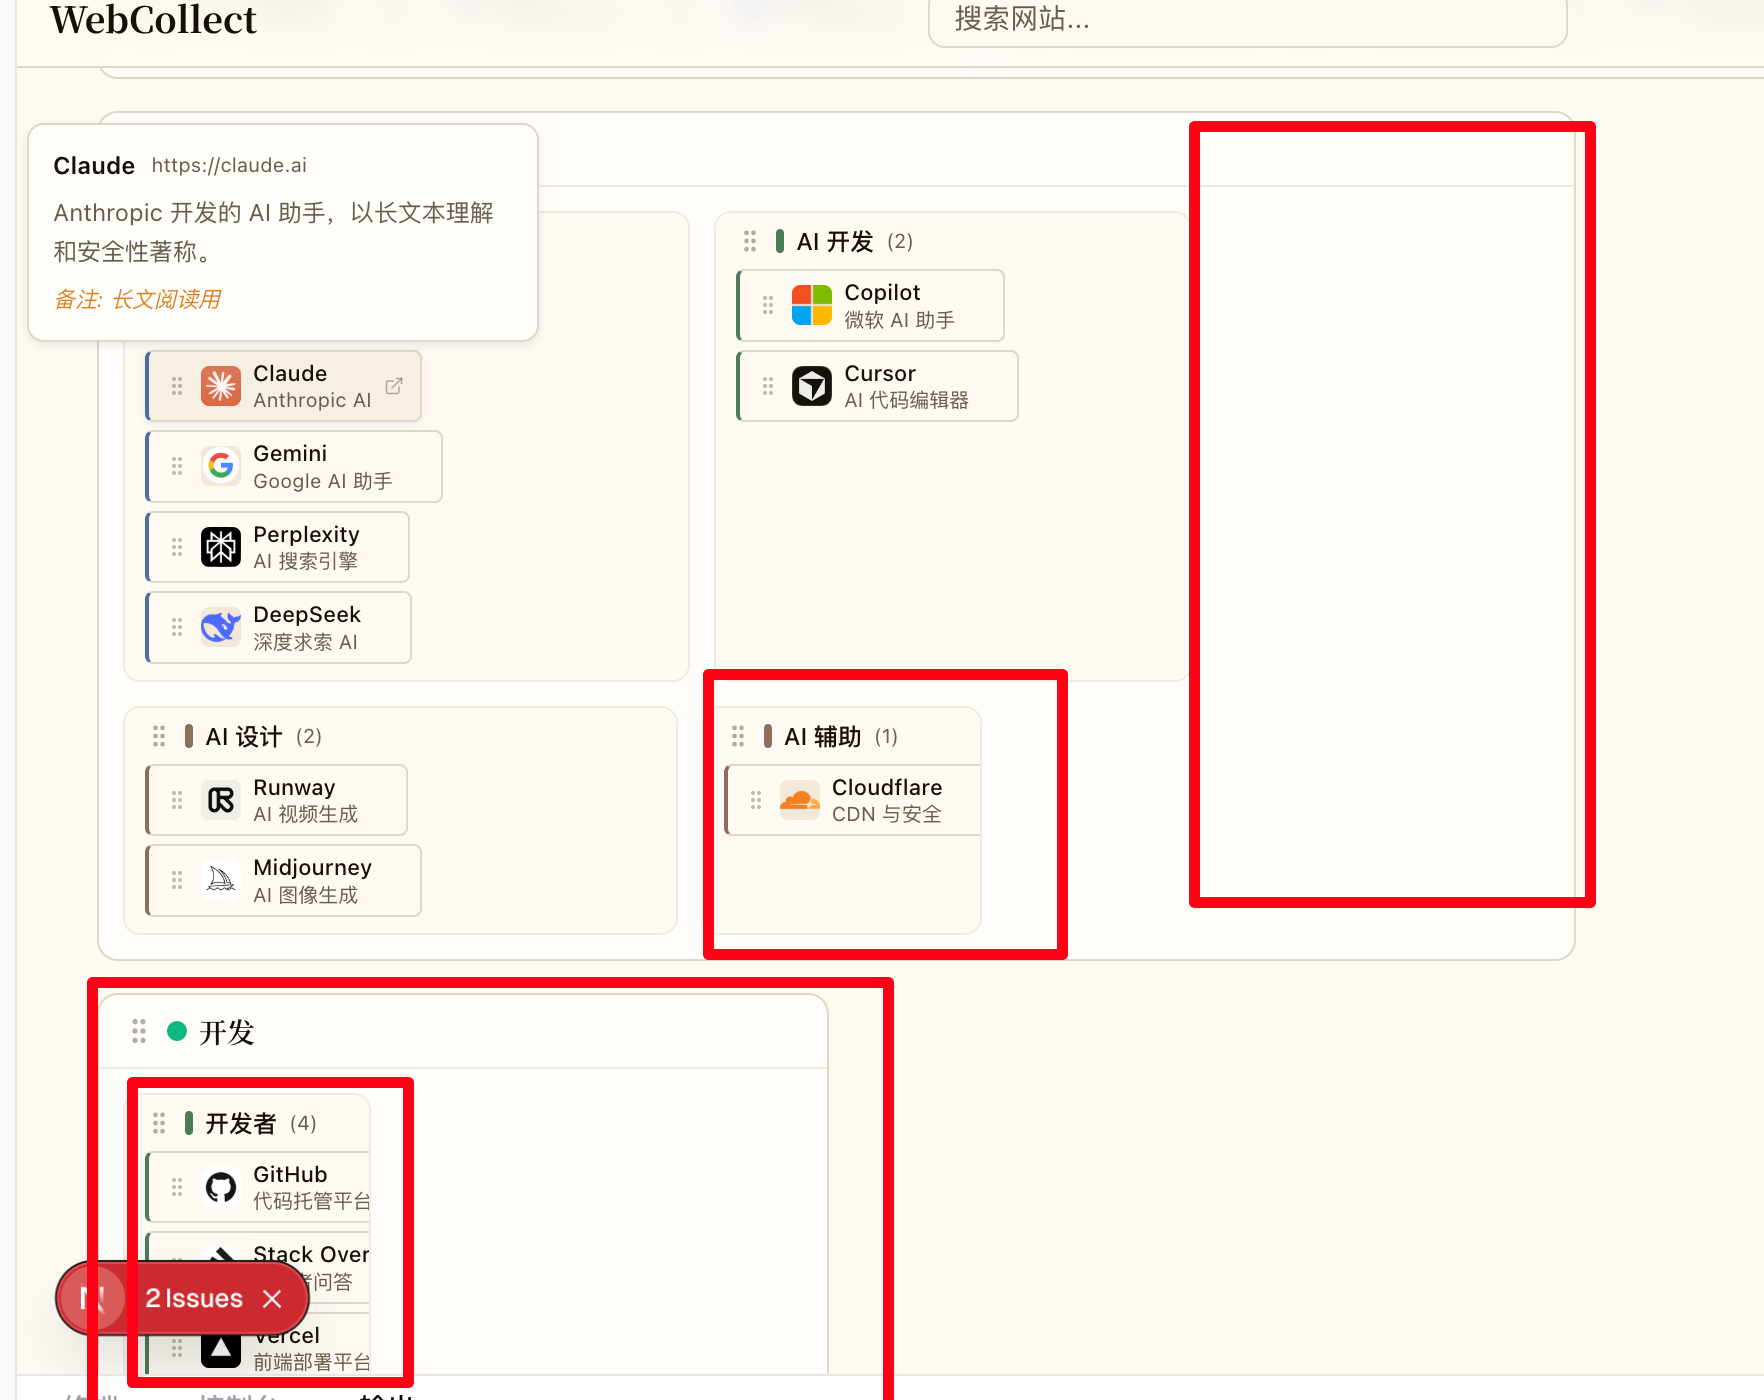
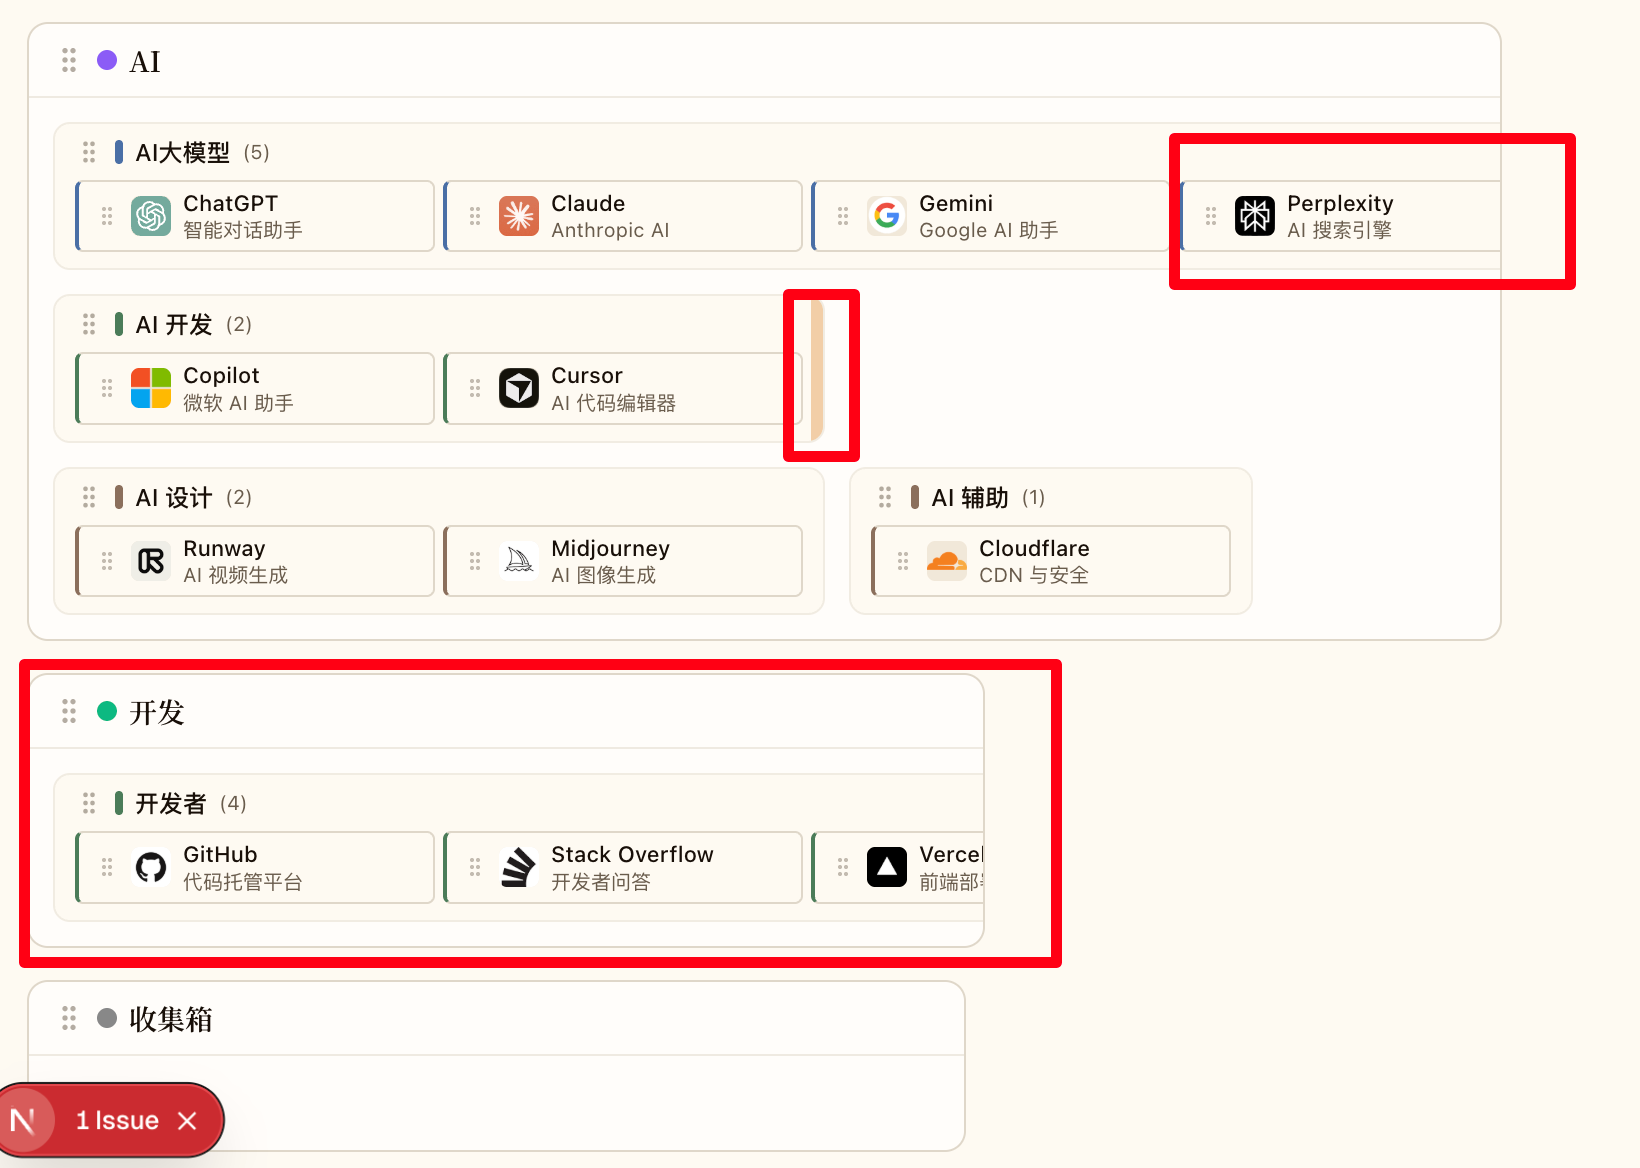
fix: 修复分组拉伸和分类内自适应布局问题
1. 卡片：从 w-[180px] shrink-0 改为 min-w-[140px] flex-1
   - 卡片随分组宽度自动伸缩，窄时缩至140px，宽时自动填充
   - 拉宽分组时卡片自动换行多列，不留白

2. 子分组和未分类分组：
   - 默认 flex: 1 1 0%（均匀填充父容器空间）
   - 手动拉伸后 flex: 0 0 XX%（固定指定宽度）
   - 移除 shrink-0，允许分组被压缩（相邻分组拉伸时）
   - 外部分类拉宽时，内部分组自动填满空间

3. 所有拉伸手柄：添加 onPointerDown + e.preventDefault() + e.stopPropagation()
   - 阻止 dnd-kit 的 PointerSensor 捕获拉伸事件
   - 拉伸和拖动不再互相干扰

Changed region(s): [[0.0, 0.0, 1.0, 1.0], [0.2488, 0.4623, 0.2799, 0.524]]

diff --git a/src/components/layout/sortable-grid.tsx b/src/components/layout/sortable-grid.tsx
@@ -706,6 +706,10 @@ function SortableCategoryBlock({
       <div
         className="absolute right-0 top-0 bottom-0 w-1.5 cursor-col-resize
           hover:bg-primary/20 active:bg-primary/30 transition-colors rounded-r-lg"
+        onPointerDown={(e) => {
+          e.preventDefault();
+          e.stopPropagation();
+        }}
         onMouseDown={handleResizeStart}
       />
     </div>
@@ -815,14 +819,16 @@ function SortableSubGroupBlock({
     transform: CSS.Transform.toString(transform),
     transition,
     opacity: isDragging ? 0.4 : 1,
-    ...(widthPercent !== null ? { minWidth: `${widthPercent}%` } : {}),
+    ...(widthPercent !== null
+      ? { flex: `0 0 ${widthPercent}%` }
+      : { flex: "1 1 0%" }),
   };
 
   return (
     <div
       ref={setRef}
       style={style}
-      className="relative rounded-md border border-border/40 bg-background overflow-hidden shrink-0"
+      className="relative rounded-md border border-border/40 bg-background overflow-hidden min-w-0"
     >
       {/* Sub-group header - buttons right next to title */}
       <div className="flex items-center gap-1.5 px-2.5 py-1.5 flex-wrap">
@@ -908,6 +914,10 @@ function SortableSubGroupBlock({
       <div
         className="absolute right-0 top-0 bottom-0 w-1.5 cursor-col-resize
           hover:bg-primary/20 active:bg-primary/30 transition-colors rounded-r-md"
+        onPointerDown={(e) => {
+          e.preventDefault();
+          e.stopPropagation();
+        }}
         onMouseDown={handleResizeStart}
       />
     </div>
@@ -996,14 +1006,16 @@ function SortableUngroupedBlock({
     transform: CSS.Transform.toString(transform),
     transition,
     opacity: isDragging ? 0.4 : 1,
-    ...(widthPercent !== null ? { minWidth: `${widthPercent}%` } : {}),
+    ...(widthPercent !== null
+      ? { flex: `0 0 ${widthPercent}%` }
+      : { flex: "1 1 0%" }),
   };
 
   return (
     <div
       ref={setRef}
       style={style}
-      className="relative rounded-md border border-border/40 bg-background overflow-hidden shrink-0"
+      className="relative rounded-md border border-border/40 bg-background overflow-hidden min-w-0"
     >
       {/* Header - buttons right next to title */}
       <div className="flex items-center gap-1.5 px-2.5 py-1.5 flex-wrap">
@@ -1089,6 +1101,10 @@ function SortableUngroupedBlock({
       <div
         className="absolute right-0 top-0 bottom-0 w-1.5 cursor-col-resize
           hover:bg-primary/20 active:bg-primary/30 transition-colors rounded-r-md"
+        onPointerDown={(e) => {
+          e.preventDefault();
+          e.stopPropagation();
+        }}
         onMouseDown={handleResizeStart}
       />
     </div>

diff --git a/src/components/card/web-card.tsx b/src/components/card/web-card.tsx
@@ -53,7 +53,7 @@ export function WebCardItem({
       className={`
         group relative flex items-center gap-1.5 px-2 py-1
         rounded border transition-all select-none
-        w-[180px] flex-shrink-0
+        min-w-[140px] flex-1
         ${editMode ? "cursor-default" : "cursor-pointer hover:bg-muted/50"}
         hover:shadow-sm
       `}